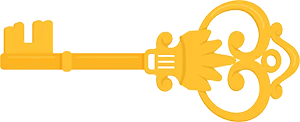
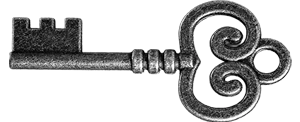
add book popup

diff --git a/src/scenes/Game.js b/src/scenes/Game.js
@@ -27,14 +27,16 @@ export class Game extends Phaser.Scene {
 
         this.currentRoom    = 1;
         this.isTransitioning = false;
-        this.popupChaveGlow  = null;
-        this.folhaGloboGlow  = null;
-        this.folhaCasacoGlow = null;
+        this.popupChaveGlow      = null;
+        this.folhaGloboGlow      = null;
+        this.folhaCasacoGlow     = null;
+        this.bookPopupChaveGlow  = null;
 
         this.createRooms();
         this.createNavArrows();
         this.createSwipeInput();
         this.createPopupLayer();
+        this.createBookPopupLayer();
         this.createEndScreen();
 
         // começa na sala central (Mesa + Globo)
@@ -114,9 +116,9 @@ export class Game extends Phaser.Scene {
         // ── Sala 2 — Estante ─────────────────────────────────
         this.estante = this.add.image(0, 0, 'estante').setOrigin(0.5).setScale(0.7);
 
-        this.livros = this.add.image(100, -180, 'livros')
+        this.livros = this.add.image(140, -235, 'livros')
             .setOrigin(0.5)
-            .setScale(0.5)
+            .setScale(0.7)
             .setVisible(false) // revelado após ler o bilhete do casaco
             .setInteractive();
         this.livros.on('pointerdown', () => this.onLivrosTap());
@@ -286,11 +288,7 @@ export class Game extends Phaser.Scene {
     }
 
     onLivrosTap() {
-        this.showPopup(
-            '"Mover-se com quem pensa diferente\npara impedir a barbárie."',
-            null,
-            true // mostra chave dentro do popup
-        );
+        this.showBookPopup('"Mover-se com quem pensa diferente\npara impedir a barbárie."');
     }
 
     onPortaTap() {
@@ -369,6 +367,82 @@ export class Game extends Phaser.Scene {
         this.endOverlay.setVisible(true).setAlpha(1);
         this.endLogo.setVisible(true).setAlpha(1);
         this.endBtn.setVisible(true).setAlpha(1);
+    }
+
+    // ─── Popup do livro ───────────────────────────────────────
+
+    createBookPopupLayer() {
+        const { width, height } = this.scale;
+        const cx = width / 2;
+        const cy = height / 2;
+        const bookW = width - 40;
+        const halfPage = bookW / 4; // distância do centro a cada página
+
+        this.bookPopupBg = this.add.image(cx, cy, 'livro-aberto')
+            .setDisplaySize(bookW, 360)
+            .setScrollFactor(0).setVisible(false).setDepth(11);
+
+        this.bookPopupQuote = this.add.text(cx - halfPage, cy - 30, '', {
+            fontSize: '17px',
+            fontFamily: 'Georgia, serif',
+            fontStyle: 'italic',
+            color: '#2c1810',
+            align: 'center',
+            wordWrap: { width: bookW / 2 - 40 },
+            lineSpacing: 8,
+        }).setOrigin(0.5).setScrollFactor(0).setVisible(false).setDepth(12);
+
+        this.bookPopupInstruction = this.add.text(cx - halfPage, cy + 80, '', {
+            fontSize: '16px',
+            fontFamily: 'sans-serif',
+            color: '#5a4a3a',
+            align: 'center',
+            wordWrap: { width: bookW / 2 - 40 },
+        }).setOrigin(0.5).setScrollFactor(0).setVisible(false).setDepth(12);
+
+        this.bookPopupChave = this.add.image(cx + halfPage, cy, 'chave')
+            .setOrigin(0.5)
+            .setScale(0.45)
+            .setScrollFactor(0).setVisible(false).setDepth(12)
+            .setInteractive()
+            .on('pointerdown', () => this.onPopupChaveTap());
+
+        this.bookPopupClose = this.add.text(cx + bookW / 2 - 20, cy - 155, '✕', {
+            fontSize: '22px',
+            fontFamily: 'sans-serif',
+            color: '#5a4a3a',
+        }).setOrigin(0.5).setScrollFactor(0).setVisible(false).setDepth(12);
+        this.bookPopupClose.setInteractive(
+            new Phaser.Geom.Rectangle(-15, -15, 50, 50),
+            Phaser.Geom.Rectangle.Contains
+        ).on('pointerdown', () => this.hideBookPopup());
+    }
+
+    showBookPopup(quote) {
+        this.bookPopupQuote.setText(quote).setVisible(true);
+        this.bookPopupInstruction.setVisible(false);
+        this.popupOverlay.setVisible(true);
+        this.bookPopupBg.setVisible(true);
+        this.bookPopupClose.setVisible(true);
+
+        this.bookPopupChave.setVisible(true).setAlpha(0);
+        this.tweens.add({ targets: this.bookPopupChave, alpha: 1, duration: 300 });
+        if (!this.bookPopupChaveGlow) {
+            this.bookPopupChaveGlow = this.addPersistentGlow(this.bookPopupChave);
+        }
+    }
+
+    hideBookPopup() {
+        [
+            this.popupOverlay, this.bookPopupBg,
+            this.bookPopupQuote, this.bookPopupInstruction,
+            this.bookPopupChave, this.bookPopupClose,
+        ].forEach(o => o.setVisible(false));
+
+        if (this.bookPopupChaveGlow) {
+            this.bookPopupChave.postFX.remove(this.bookPopupChaveGlow);
+            this.bookPopupChaveGlow = null;
+        }
     }
 
     // ─── Popup ────────────────────────────────────────────────
@@ -464,8 +538,20 @@ export class Game extends Phaser.Scene {
         if (this.state.chaveObtida) return;
         this.state.chaveObtida = true;
 
-        this.hidePopup();
-        this.showPopup('Você encontrou a chave!', 'Volte até a porta.');
+        if (this.bookPopupChaveGlow) {
+            this.bookPopupChave.postFX.remove(this.bookPopupChaveGlow);
+            this.bookPopupChaveGlow = null;
+        }
+
+        this.tweens.add({
+            targets:  this.bookPopupChave,
+            alpha:    0,
+            duration: 300,
+            onComplete: () => this.bookPopupChave.setVisible(false),
+        });
+
+        this.bookPopupQuote.setText('Você encontrou a chave!');
+        this.bookPopupInstruction.setText('Volte até a porta.').setVisible(true);
 
         this.porta
             .setInteractive(

diff --git a/src/scenes/Preload.js b/src/scenes/Preload.js
@@ -33,6 +33,7 @@ export class Preload extends Phaser.Scene {
         this.load.image('logo',          'assets/logo.webp');
         this.load.image('papel-tex',     'assets/papel-tex.webp');
         this.load.image('pista-globo',   'assets/pista-globo.webp');
+        this.load.image('livro-aberto',  'assets/livro-aberto.webp');
         this.load.image('poster',  'assets/poster.webp');
         this.load.image('chapeu',        'assets/chapeu.webp');
         this.load.image('chao',          'assets/chao-pb.webp');
